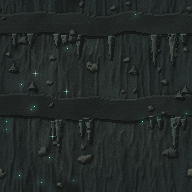
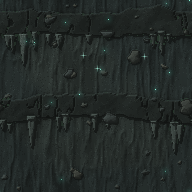
Стены: чёткие камни с контуром и бликом, окаменелости, тусклые угли, автотест и проверка tools/walls_check.py
Дизер ослаблен (1-px шахматка даёт муар при нецелом масштабе экрана), у камней и окаменелостей свет ступенями и контур в 1 px.
Heaven темнее и теплее, bedrock с тлеющими швами потоков, crystal с друзовыми полями, ruins с аркой ниши.

Claude-Session: https://claude.ai/code/session_0136gV4z446Ram1BD5cWLTAs

diff --git a/tools/walls_deep.py b/tools/walls_deep.py
@@ -99,6 +99,22 @@ def scatter_stones(sc, rg, specs, palette, aniso=1.7, hmul=0.55, rough=0.16, mot
             sc.alb[inside] = col[None, :] * (1.0 + tex[inside])[:, None]
             sc.edge[inside] = np.minimum(sc.edge[inside], (1.0 - r[inside]))
             sc.stone |= inside
+            sc.stone_tone[inside] = stone_bands(inside, np.where(inside, (dome ** (0.75 + flatten)) * hgt, 0.0), min(rx, ry))[inside]
+
+
+def stone_bands(inside, hv, size):
+    """Свет по куполу камня ступенями (4-5 тонов), тёмный контур в 1 px и блик на верхней-левой кромке: чёткий пиксель-арт."""
+    gx = (np.roll(hv, -1, 1) - np.roll(hv, 1, 1)) * 0.5
+    gy = (np.roll(hv, -1, 0) - np.roll(hv, 1, 0)) * 0.5
+    lx, ly, lz = -0.62, -0.78, 0.62
+    nl = (-gx * lx - gy * ly + lz) / np.sqrt(gx * gx + gy * gy + 1.0) / lz
+    tone = np.select([nl < 0.55, nl < 0.85, nl < 1.18, nl < 1.55], [0.60, 0.80, 1.0, 1.2], 1.38)
+    edge = inside & ~(np.roll(inside, 1, 0) & np.roll(inside, -1, 0) & np.roll(inside, 1, 1) & np.roll(inside, -1, 1))
+    if size >= 2.2:
+        up_left = np.roll(edge, (1, 1), (0, 1)) & inside & ~edge
+        tone = np.where(up_left, np.maximum(tone, 1.34), tone)
+        tone = np.where(edge, 0.52, tone)
+    return tone
 
 
 class Scene:
@@ -111,6 +127,7 @@ class Scene:
         self.emit = np.zeros((N, N, 3))
         self.edge = np.full((N, N), 9.0)
         self.stone = np.zeros((N, N), dtype=bool)
+        self.stone_tone = np.full((N, N), np.nan)
 
     def commit_base(self):
         self.base_h = self.h.copy()
@@ -118,6 +135,8 @@ class Scene:
     def render(self, levels=6, amount=0.55, lo=0.34, span=1.12, **lit_kw):
         s = lit(self.h, **lit_kw)
         sq = lo + dq((s - lo) / span, levels, amount) * span
+        m = ~np.isnan(self.stone_tone)
+        sq = np.where(m, self.stone_tone * np.minimum(1.0, 0.55 + 0.45 * sq), sq)
         return self.alb * sq[..., None] + self.emit
 
 
@@ -136,12 +155,14 @@ def fossil_ammonite(sc, rg, cx, cy, r, col):
     th = np.arctan2(dy, dx)
     inside = rho < r
     # спираль: равномерные витки со складками-рёбрами
-    whorl = (rho / r * 3.2 - th / math.tau) % 1.0
-    rib = 0.5 + 0.5 * np.cos(th * 11 + rho * 0.5)
+    whorl = (rho / r * 2.3 - th / math.tau) % 1.0
+    rib = 0.5 + 0.5 * np.cos(th * 9)
     sc.h[inside] = sc.base_h[inside] + (1.1 + 0.9 * np.sqrt(np.clip(1 - (rho[inside] / r) ** 2, 0, 1)) + 0.7 * (1 - whorl[inside]) ** 0.5 * rib[inside])
-    tone = np.where(whorl < 0.12, 0.62, 1.0)[inside] * (0.88 + 0.12 * rib[inside])
+    groove = (whorl < 0.2)
+    tone = np.where(groove, 0.55, 1.0)[inside] * (0.86 + 0.14 * rib[inside])
     sc.alb[inside] = col[None, :] * tone[:, None]
     sc.stone |= inside
+    sc.stone_tone[inside] = stone_bands(inside, np.where(inside, sc.h - sc.base_h, 0.0), r * 0.5)[inside] * np.where(groove, 0.8, 1.0)[inside]
 
 
 def fossil_bone(sc, rg, cx, cy, length, thick, ang, col):
@@ -161,6 +182,7 @@ def fossil_bone(sc, rg, cx, cy, length, thick, ang, col):
     sc.h[m] = sc.base_h[m] + 0.9 + 1.4 * np.sqrt(prof[m])
     sc.alb[m] = col[None, :] * (0.92 + 0.12 * fbm(rg, 10, 2)[m])[:, None]
     sc.stone |= m
+    sc.stone_tone[m] = stone_bands(m, np.where(m, sc.h - sc.base_h, 0.0), thick)[m]
 
 
 def fossil_shell(sc, rg, cx, cy, r, col):
@@ -173,6 +195,7 @@ def fossil_shell(sc, rg, cx, cy, r, col):
     sc.h[m] = sc.base_h[m] + 1.2 + 1.1 * np.sqrt(np.clip(1 - (rho[m] / r) ** 2, 0, 1)) + 0.9 * rib[m]
     sc.alb[m] = col[None, :] * (0.78 + 0.22 * rib[m])[:, None]
     sc.stone |= m
+    sc.stone_tone[m] = stone_bands(m, np.where(m, sc.h - sc.base_h, 0.0), r * 0.5)[m]
 
 
 def fossil_sherd(sc, rg, cx, cy, w, h_, ang, col, dark):
@@ -193,6 +216,7 @@ def fossil_sherd(sc, rg, cx, cy, w, h_, ang, col, dark):
     tone = np.where(bands & m & ~wave, 1.0, tone)
     sc.alb[m] = np.where(tone[m][:, None] < 0.8, dark[None, :], col[None, :] * (0.94 + 0.1 * fbm(rg, 9, 2)[m])[:, None])
     sc.stone |= m
+    sc.stone_tone[m] = stone_bands(m, np.where(m, sc.h - sc.base_h, 0.0), min(w, h_) * 0.5)[m]
 
 
 def moss_clumps(img, sc, rg, wet, thr, color, amt, density):
@@ -242,29 +266,37 @@ def wall_roots():
                  ((58, 52, 47), (54, 50, 49), (63, 54, 42), (56, 41, 31), (62, 47, 35), (48, 44, 41))]
     scatter_stones(sc, rg, [(4, 12.0, 17.0, 46.0), (13, 5.5, 9.5, 24.0), (24, 3.2, 5.2, 13.0), (50, 1.4, 3.0, 6.5)], stone_pal)
     bone = np.array((92, 82, 64), dtype=np.float64)
-    fossil_ammonite(sc, rg, 52, 128, 10.5, bone * 0.96)
+    fossil_ammonite(sc, rg, 52, 128, 13.0, bone * 0.96)
     fossil_bone(sc, rg, 142, 62, 30, 3.2, -0.35, bone)
     fossil_shell(sc, rg, 149, 160, 8.0, bone * 0.92)
     fossil_sherd(sc, rg, 22, 30, 15, 10, 0.4, np.array((78, 54, 40.0)), np.array((44, 28, 21.0)))
-    img = sc.render(levels=7, amount=0.5)
+    img = sc.render(levels=8, amount=0.22)
     moss_clumps(img, sc, rg, wet, 0.35, (52, 62, 34), 0.55, 0.30)
     # тонкие светлые корни — только в верхней части плитки, нитями, не мотивом
-    for x in rg.uniform(0, N, 6):
+    for x in rg.uniform(0, N, 7):
         x = float(x)
-        y = float(rg.uniform(0, 22))
-        ln = float(rg.uniform(22, 54))
+        y = float(rg.uniform(0, 20))
+        ln = float(rg.uniform(20, 58))
+        steps = int(ln // 3)
+        sway = float(rg.uniform(0.5, 1.4))
+        ph = float(rg.uniform(0, math.tau))
         pts = [(x, y)]
-        for _s in range(int(ln // 6)):
-            x += float(rg.normal(0, 1.1))
-            y += 6.0
+        for k in range(steps):
+            x += sway * math.sin(ph + k * 0.55) * 0.9 + float(rg.normal(0, 0.45))
+            y += 3.0
             pts.append((x, y))
-        put_line(img, [(px + 1, py + 1) for px, py in pts], (18, 12, 9), 0.35)
-        put_line(img, pts, (104, 88, 66), 0.5)
-        if rg.random() < 0.6:
-            k = int(rg.integers(1, len(pts)))
+        for k in range(len(pts) - 1):
+            fade = 1.0 - k / max(1, len(pts) - 1)
+            seg = [pts[k], pts[k + 1]]
+            put_line(img, [(px + 1, py + 1) for px, py in seg], (18, 12, 9), 0.26 * (0.4 + fade))
+            put_line(img, seg, (112, 94, 70), 0.14 + 0.46 * fade)
+        for _b in range(int(rg.integers(0, 3))):
+            k = int(rg.integers(1, max(2, len(pts) - 2)))
             bx, by = pts[k]
             sg = float(rg.choice([-1, 1]))
-            put_line(img, [(bx, by), (bx + sg * 3.0, by + 3), (bx + sg * 5.5, by + 7.0)], (98, 82, 62), 0.4)
+            bl = [(bx, by), (bx + sg * 2.5, by + 2.5), (bx + sg * 4.0, by + 6.0), (bx + sg * 4.5, by + 9.5)]
+            for q in range(3):
+                put_line(img, bl[q:q + 2], (104, 88, 66), 0.36 - 0.1 * q)
     return squeeze(img, (37, 27, 21), 0.75)
 
 
@@ -350,11 +382,17 @@ def wall_caves():
     alb *= (1.0 - 0.16 * wet)[..., None]
     lip_y = []
     for ly in ledges:
-        edge_y = ly + fbm(rg, 6, 2, ay=0.3) * 6.0
-        top = edge_y - 20 + 3.5 * fbm(rg, 5, 2, ay=0.2)
+        edge_y = ly + fbm(rg, 5, 3, ay=0.3) * 8.0 + fbm(rg, 18, 2, ay=0.2) * 2.4
+        top = edge_y - 22 + 6.0 * fbm(rg, 3, 2, ay=0.3)
         over = (YY < edge_y) & (YY > top)
-        h = np.where(over, 3.6 + 0.9 * fbm(rg, 8, 2), h)
-        alb = np.where(over[..., None], base[None, None, :] * 0.74 * (1.0 + 0.12 * fbm(rg, 9, 2))[..., None], alb)
+        rough = fbm(rg, 12, 3)
+        h = np.where(over, 3.4 + 1.4 * rough, h)
+        shelf = base[None, None, :] * 0.70 * (1.0 + 0.16 * fbm(rg, 9, 2) + 0.08 * rough)[..., None]
+        alb = np.where(over[..., None], shelf, alb)
+        # трещины-швы в полке
+        seams = over & (np.abs(fbm(rg, 6, 3, ax=2.0, ay=0.7)) < 0.025)
+        h = np.where(seams, h - 1.6, h)
+        alb = np.where(seams[..., None], alb * 0.6, alb)
         lip_y.append(edge_y)
     sc.alb = alb
     sc.h = h
@@ -367,20 +405,12 @@ def wall_caves():
             wd = float(rg.uniform(3.5, 7.0)) * (0.7 + ln / 60.0)
             yb = float(lip_y[j][int(_py) % N, int(px) % N]) + 1
             stalactite(sc, px, yb, ln, wd, stal_tone * rg.uniform(0.92, 1.08))
-    for _ in range(5):
-        px = int(rg.uniform(0, N))
-        py0 = int(rg.uniform(70, 100))
-        for dx in range(-4, 5):
-            hh = max(0.0, 7.0 - abs(dx) * 1.5)
-            for dy in range(int(hh)):
-                sc.h[(py0 - dy) % N, (px + dx) % N] += 2.0 + 2.6 * math.sqrt(max(0.0, 1 - (dx / 5.0) ** 2))
-                sc.alb[(py0 - dy) % N, (px + dx) % N] = stal_tone * 0.95
     grain = rg.random((N, N))
     sc.alb = np.where((grain < 0.04)[..., None], sc.alb * 1.28, sc.alb)
     sc.alb = np.where((grain > 0.96)[..., None], sc.alb * 0.74, sc.alb)
     stone_pal = [np.array(c, dtype=np.float64) for c in ((50, 54, 50), (44, 50, 49), (56, 58, 52))]
     scatter_stones(sc, rg, [(7, 4.0, 8.0, 18.0), (26, 1.5, 3.2, 7.0)], stone_pal, hmul=0.5)
-    img = sc.render(levels=7, amount=0.5)
+    img = sc.render(levels=8, amount=0.22)
     moss_clumps(img, sc, rg, wet, 0.30, (40, 62, 46), 0.45, 0.22)
     glow = np.zeros((N, N, 3))
     m = np.zeros((N, N))
@@ -436,6 +466,13 @@ def wall_crystal():
     veins = np.abs(fbm(rg, 4, 3)) < 0.022
     sc.alb = np.where(veins[..., None], sc.alb * np.array((1.3, 1.36, 1.65)), sc.alb)
     sc.commit_base()
+    pal_d = [np.array(c, dtype=np.float64) for c in ((44, 33, 78), (52, 38, 88), (38, 62, 84), (58, 40, 90))]
+    for (px, py) in place_points(rg, 7, 36.0):
+        rr = float(rg.uniform(11, 17))
+        for _ in range(int(rr * 1.3)):
+            a = float(rg.uniform(0, math.tau))
+            d = rr * math.sqrt(float(rg.random()))
+            crystal_cluster(sc, rg, px + d * math.cos(a), py + d * 0.7 * math.sin(a), 1, float(rg.uniform(5, 9)), 1.3, pal_d)
     geodes = [(54, 62, 21), (150, 150, 17), (160, 36, 11), (28, 152, 10)]
     rim = np.array((40, 31, 58), dtype=np.float64)
     for cx, cy, r in geodes:
@@ -465,14 +502,14 @@ def wall_crystal():
             sc.h[lf | rt] = sc.base_h[lf | rt] + 1.2
             sc.alb[lf] = col * 1.12
             sc.alb[rt] = col * 0.66
-    pal_a = [np.array(c, dtype=np.float64) for c in ((54, 40, 92), (62, 45, 102), (46, 74, 98), (68, 47, 100))]
+    pal_a = [np.array(c, dtype=np.float64) for c in ((54, 40, 92), (62, 45, 102), (42, 66, 90), (68, 47, 100))]
     crystal_cluster(sc, rg, 104, 124, 7, 34, 0.9, pal_a)
     crystal_cluster(sc, rg, 20, 108, 5, 22, 0.8, pal_a)
     crystal_cluster(sc, rg, 168, 96, 5, 26, 0.9, pal_a)
     crystal_cluster(sc, rg, 98, 186, 6, 24, 0.9, pal_a)
     for (px, py) in place_points(rg, 18, 9.0):
         crystal_cluster(sc, rg, px, py, 2, float(rg.uniform(7, 12)), 0.7, pal_a)
-    img = sc.render(levels=7, amount=0.5)
+    img = sc.render(levels=8, amount=0.22)
     glow = np.zeros((N, N, 3))
     m = np.zeros((N, N))
     for _ in range(26):
@@ -497,6 +534,7 @@ def wall_bedrock():
     idx, f, thick = strata(rg, k, wobble=15.0, thick_var=0.9)
     cols = np.array([(38, 25, 22), (31, 21, 20), (44, 28, 23), (35, 24, 24), (28, 20, 20), (48, 30, 24),
                      (34, 23, 21), (40, 27, 25), (30, 21, 21)], dtype=np.float64)
+    hot_layer = rg.random(k) < 0.22
     pick = rg.integers(0, len(cols), k)
     lc = cols[pick] * rg.uniform(0.94, 1.06, (k, 1))
     sc = Scene(lc[0])
@@ -518,12 +556,17 @@ def wall_bedrock():
         sc.alb[ins] = sc.alb[ins] * 0.66
     stone_pal = [np.array(c, dtype=np.float64) for c in ((50, 36, 33), (44, 33, 32), (56, 40, 34))]
     scatter_stones(sc, rg, [(5, 5.0, 9.0, 24.0), (18, 2.0, 3.8, 9.0)], stone_pal, hmul=0.45)
-    img = sc.render(levels=7, amount=0.5)
+    img = sc.render(levels=8, amount=0.22)
     glow = np.zeros((N, N, 3))
-    gate = np.clip((fbm(rg, 3, 3) - 0.18) * 3.0, 0, 1)
+    gate = np.clip((fbm(rg, 3, 3) + 0.05) * 3.0, 0, 1)
     c_mask = np.clip(1.0 - (crack - 0.1) / 1.3, 0, 1) * gate
-    glow += c_mask[..., None] * np.array((140, 52, 18)) * 0.40
-    add_halo(glow, c_mask > 0.5, (110, 40, 14), 2.4, 1.6)
+    glow += c_mask[..., None] * np.array((150, 56, 20)) * 0.55
+    add_halo(glow, c_mask > 0.5, (110, 40, 14), 2.6, 2.2)
+    # тлеющие швы между некоторыми слоями-потоками: тонкая оранжевая нить по границе
+    edge_l = (f < 0.05) & hot_layer[idx]
+    seam = edge_l & (fbm(rg, 5, 2, ax=1.0, ay=0.3) > -0.25)
+    glow += seam[..., None] * np.array((176, 74, 24)) * 0.38
+    add_halo(glow, seam, (120, 44, 14), 2.2, 1.6)
     for _ in range(18):
         x, y = int(rg.integers(0, N)), int(rg.integers(0, N))
         add_dot(glow, x, y, (170, 80, 36), float(rg.uniform(0.2, 0.55)))
@@ -642,6 +685,15 @@ def wall_ruins():
     sc.alb = np.where(niche[..., None], np.array((20, 17, 13.0)) * (1 + 0.15 * fbm(rg, 9, 2))[..., None], sc.alb)
     lip = (np.abs(dxn) < 23) & (cyy > 62) & (cyy < 66)
     sc.h = np.where(lip, 2.0, sc.h)
+    ring_r = np.hypot(dxn, cyy)
+    arch = ((ring_r >= 19) & (ring_r < 26) & (cyy < 0)) | ((np.abs(dxn) >= 19) & (np.abs(dxn) < 26) & (cyy >= 0) & (cyy <= 62))
+    sc.h = np.where(arch, 2.8 + 0.3 * fbm(rg, 12, 2), sc.h)
+    sc.alb = np.where(arch[..., None], sand[None, None, :] * 1.0 * (1 + 0.1 * fbm(rg, 10, 2))[..., None], sc.alb)
+    wedge = np.abs(np.sin(np.arctan2(cyy, dxn) * 6.0)) < 0.07
+    joint_j = (cyy >= 0) & ((cyy % 13) < 1.6)
+    seam_a = arch & np.where(cyy < 0, wedge, joint_j)
+    sc.h = np.where(seam_a, 0.8, sc.h)
+    sc.alb = np.where(seam_a[..., None], sc.alb * 0.55, sc.alb)
     # трещины и выбоины
     for _ in range(5):
         x = float(rg.uniform(0, N))
@@ -663,7 +715,7 @@ def wall_ruins():
     stone_pal = [np.array(c, dtype=np.float64) for c in ((60, 52, 40), (54, 48, 40), (66, 56, 42))]
     scatter_stones(sc, rg, [(6, 1.6, 3.4, 14.0)], stone_pal, hmul=0.5)
     wet = np.clip((fbm(rg, 3, 3) - 0.05) * 3.0, 0, 1)
-    img = sc.render(levels=7, amount=0.5)
+    img = sc.render(levels=8, amount=0.22)
     moss_clumps(img, sc, rg, wet, 0.30, (46, 58, 32), 0.5, 0.24)
     glow = np.zeros((N, N, 3))
     for _ in range(10):
@@ -695,7 +747,7 @@ def wall_hell():
     # сколы-шипы породы: остроугольные осколки
     stone_pal = [np.array(c, dtype=np.float64) for c in ((46, 22, 20), (40, 19, 19), (52, 25, 22))]
     scatter_stones(sc, rg, [(4, 4.0, 7.0, 26.0), (16, 1.6, 3.4, 9.0)], stone_pal, hmul=0.55, rough=0.28)
-    img = sc.render(levels=7, amount=0.5)
+    img = sc.render(levels=8, amount=0.22)
     # копоть над трещинами: тёмные потёки вверх
     glow = np.zeros((N, N, 3))
     gate = np.clip((fbm(rg, 5, 3) - 0.08) * 3.4, 0, 1) ** 1.3
@@ -810,12 +862,12 @@ def wall_heaven():
             cloud = np.maximum(cloud, np.where(ins, dome * rx * 0.45 + 1.0, 0.0))
             puffs += 1
     sc.h = cloud * 1.1
-    gold = np.array((112, 84, 54), dtype=np.float64)
-    pale = np.array((124, 98, 76), dtype=np.float64)
+    gold = np.array((104, 88, 108), dtype=np.float64)
+    pale = np.array((116, 100, 118), dtype=np.float64)
     cm = cloud > 0
     mixc = np.clip(cloud / 6.0, 0, 1)
     cl_col = gold[None, None, :] * (1 - mixc)[..., None] + pale[None, None, :] * mixc[..., None]
-    cl_col = cl_col * (1.0 + 0.07 * fbm(rg, 9, 3))[..., None]
+    cl_col = cl_col * (1.0 + 0.07 * fbm(rg, 9, 3))[..., None] * 0.78
     sc.alb = np.where(cm[..., None], cl_col, sky)
     sc.commit_base()
     s = lit(sc.h, lz=0.7, k_diff=1.0, ao_sigma=3.4, k_ao=0.5, shadow_len=11, slope=0.55, k_shadow=0.55)
@@ -826,6 +878,9 @@ def wall_heaven():
     shade = np.clip(1.0 - sq, 0, 1) * cm
     img[..., 2] += 30.0 * shade
     img[..., 0] += 6.0 * shade
+    # золото ложится на освещённые кромки облаков
+    hl = np.clip(sq - 1.0, 0, 0.5) / 0.5 * cm
+    img += hl[..., None] * np.array((58, 42, -12))
     # лучи под 45 градусов (период ровно N по обеим осям): мягкая золотая дымка
     ray = gblur(np.clip(np.sin(math.tau * 3 * (XX + YY) / N + 1.1), 0, 1) ** 4, 2.2)
     ray = ray * np.clip(fbm(rg, 3, 3) + 0.65, 0, 1)

diff --git a/tools/walls_check.py b/tools/walls_check.py
@@ -1,0 +1,74 @@
+#!/usr/bin/env python3
+"""walls_check.py — объективная проверка стен-фонов (ветка «walls»): шов, тон, контраст.
+
+Для каждой art/env/deep/wall_*.png:
+  * шов: средний модуль разности пикселей через край плитки (и по X, и по Y) относительно такой же
+    разности внутри плитки; у бесшовной плитки отношение около 1 (допуск 1.35);
+  * тон: средняя яркость (Y 0..255) — стена тёмная (не выше MAX_MEAN) и низкоконтрастная (σ яркости не выше MAX_STD);
+  * свечение: доля очень ярких пикселей (Y > 150) — не больше MAX_HOT, чтобы не спорить с лавой и рудами;
+  * размер: квадрат, сторона кратна 8 (период дизера) — DeepBackdrop берёт период из размера.
+Код возврата 1 при нарушении. Это дополнение к просмотру глазами, а не замена ему.
+
+  python3 tools/walls_check.py
+"""
+
+import json
+import os
+import sys
+
+import numpy as np
+from PIL import Image
+
+ROOT = os.path.dirname(os.path.dirname(os.path.abspath(__file__)))
+SEAM_MAX = 1.15
+MAX_MEAN = 66.0
+MAX_STD = 30.0
+MAX_HOT = 0.012
+
+
+def lum(a):
+    return a[..., 0] * 0.299 + a[..., 1] * 0.587 + a[..., 2] * 0.114
+
+
+def seam_ratio(a):
+    """Разность через шов относительно 98-го перцентиля разностей между соседними столбцами/строками внутри плитки."""
+    y = lum(a)
+    out = 0.0
+    for arr in (y, y.T):
+        inner = np.abs(arr[:, 1:] - arr[:, :-1]).mean(0)
+        seam = np.abs(arr[:, 0] - arr[:, -1]).mean()
+        out = max(out, seam / (np.percentile(inner, 98) + 1e-9))
+    return out
+
+
+def main():
+    biomes = json.load(open(os.path.join(ROOT, "data", "world_layers.json"), encoding="utf-8"))["biomes"]["list"]
+    bad = 0
+    for b in biomes:
+        n = b["wall"]
+        path = os.path.join(ROOT, "art", "env", "deep", f"wall_{n}.png")
+        a = np.array(Image.open(path).convert("RGB"), dtype=np.float64)
+        h, w = a.shape[:2]
+        y = lum(a)
+        sr = seam_ratio(a)
+        hot = float((y > 150).mean())
+        msg = f"{n:8s} {w}x{h} сред. Y {y.mean():5.1f} σ {y.std():5.1f} шов x{sr:4.2f} ярких {hot * 100:4.2f}%"
+        probs = []
+        if w != h or w % 8:
+            probs.append("размер")
+        if sr > SEAM_MAX:
+            probs.append("шов")
+        if y.mean() > MAX_MEAN:
+            probs.append("светлая")
+        if y.std() > MAX_STD:
+            probs.append("контрастная")
+        if hot > MAX_HOT:
+            probs.append("яркие пятна")
+        print(msg + ("  <-- " + ",".join(probs) if probs else "  ok"))
+        bad += bool(probs)
+    print("OK" if not bad else f"НАРУШЕНИЙ: {bad}")
+    return 1 if bad else 0
+
+
+if __name__ == "__main__":
+    sys.exit(main())
